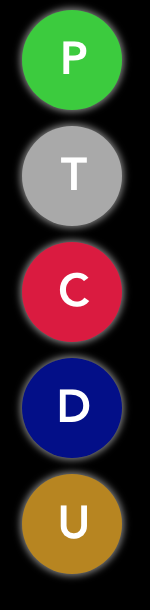
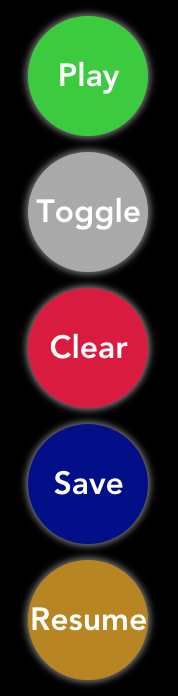
change button text.

Changed region(s): [[0.1067, 0.0623, 0.88, 0.9967], [0.1067, 0.0, 0.7733, 0.1246]]

diff --git a/src/components/RoundButton.vue b/src/components/RoundButton.vue
@@ -5,37 +5,37 @@
     :style="{
       backgroundColor: '#32CD32'
     }"
-  ><span class="button-text">P</span></div>
+  ><span class="button-text">Play</span></div>
   <div v-else-if="this.type === 'typing' && this.enableTyping && this.enableTyping === true"
     class="round-button"
     :style="{
       backgroundColor: '#7FFFD4'
     }"
-  ><span class="button-text">T</span></div>
+  ><span class="button-text">Toggle</span></div>
   <div v-else-if="this.type === 'typing'"
     class="round-button"
     :style="{
       backgroundColor: '#A9A9A9'
     }"
-  ><span class="button-text">T</span></div>
+  ><span class="button-text">Toggle</span></div>
   <div v-else-if="this.type === 'clear'"
     class="round-button"
     :style="{
       backgroundColor: '#DC143C'
     }"
-  ><span class="button-text">C</span></div>
+  ><span class="button-text">Clear</span></div>
   <div v-else-if="this.type === 'download'"
     class="round-button"
     :style="{
       backgroundColor: '#00008B'
     }"
-  ><span class="button-text">D</span></div>
+  ><span class="button-text">Save</span></div>
   <div v-else
     class="round-button"
     :style="{
       backgroundColor: '#B8860B'
     }"
-  ><span class="button-text">U</span></div>
+  ><span class="button-text">Resume</span></div>
 </a>
 </template>
 
@@ -57,19 +57,18 @@ export default {
 <style scoped>
 .round-button {
   position: relative;
-  height: 50px;
-  width: 50px;
+  height: 60px;
+  width: 60px;
   box-shadow: 0px 0px 5px 1px gray;
   border-radius: 50%;
   margin: 8px;
   cursor: pointer;
 }
 .button-text {
-  position: relative;
-  top: 8.8px;
-  left: 0.6px;
   font-weight: bold;
-  font-size: 23px;
+  text-align: center;
+  vertical-align: middle;
+  line-height: 60px;
   color: white;
 }
 </style>

diff --git a/README.md b/README.md
@@ -54,7 +54,7 @@ This web app contains three parts. A left-side panel used to define a sequence o
 
   ![add new button](images/add-new-button.png)
 
-  Then the button will turn into an input panel allows you to input the details of this new card. Dropdown lists are the default way of doing this. Yet, you can choose to type in by enable the typing mode (click on the `T` floating button).
+  Then the button will turn into an input panel allows you to input the details of this new card. Dropdown lists are the default way of doing this. Yet, you can choose to type in by enable the typing mode (click on the `Toggle` floating button).
 
   `delay` means the seconds the screen will stay at this frame when you are playing this sequence of cards.
 
@@ -84,11 +84,11 @@ This web app contains three parts. A left-side panel used to define a sequence o
 ## Floating buttons
 
   The floating buttons are some extra functions provided for ease of use.
-  - `P` click to play the sequence of cards. You won't be able to add new card while playing. After playing the figure will go back to the card that was previously expended.
-  - `T` the button to toggle the typing mode.
-  - `C` clear all the cards in the list by only one click.
-  - `D` download the sequence of cards in a JSON file.
-  - `U` upload your JSON file to resume your sequence.
+  - `Play` click to play the sequence of cards. You won't be able to add new card while playing. After playing the figure will go back to the card that was previously expended.
+  - `Toggle` the button to toggle the typing mode.
+  - `Clear` clear all the cards in the list by only one click.
+  - `Save` download the sequence of cards in a JSON file.
+  - `Resume` upload your JSON file to resume your sequence.
 
   ![buttons](images/buttons.png)
 
